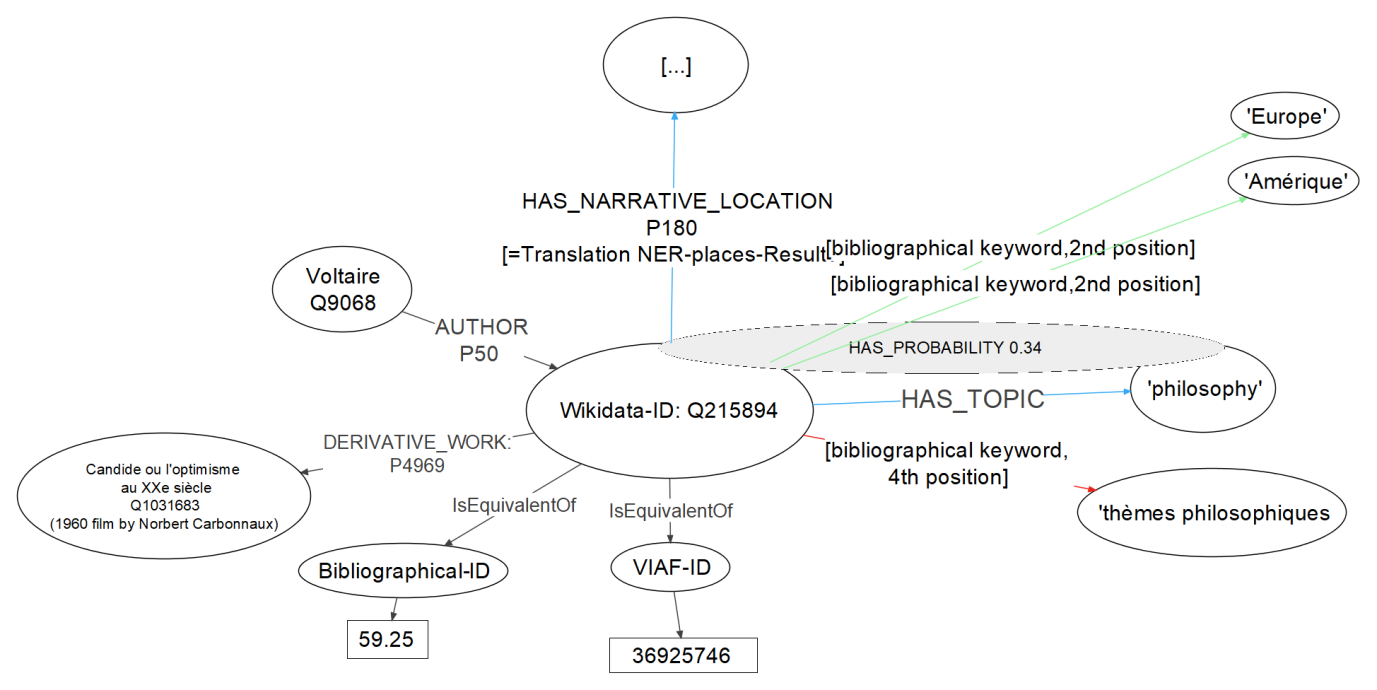
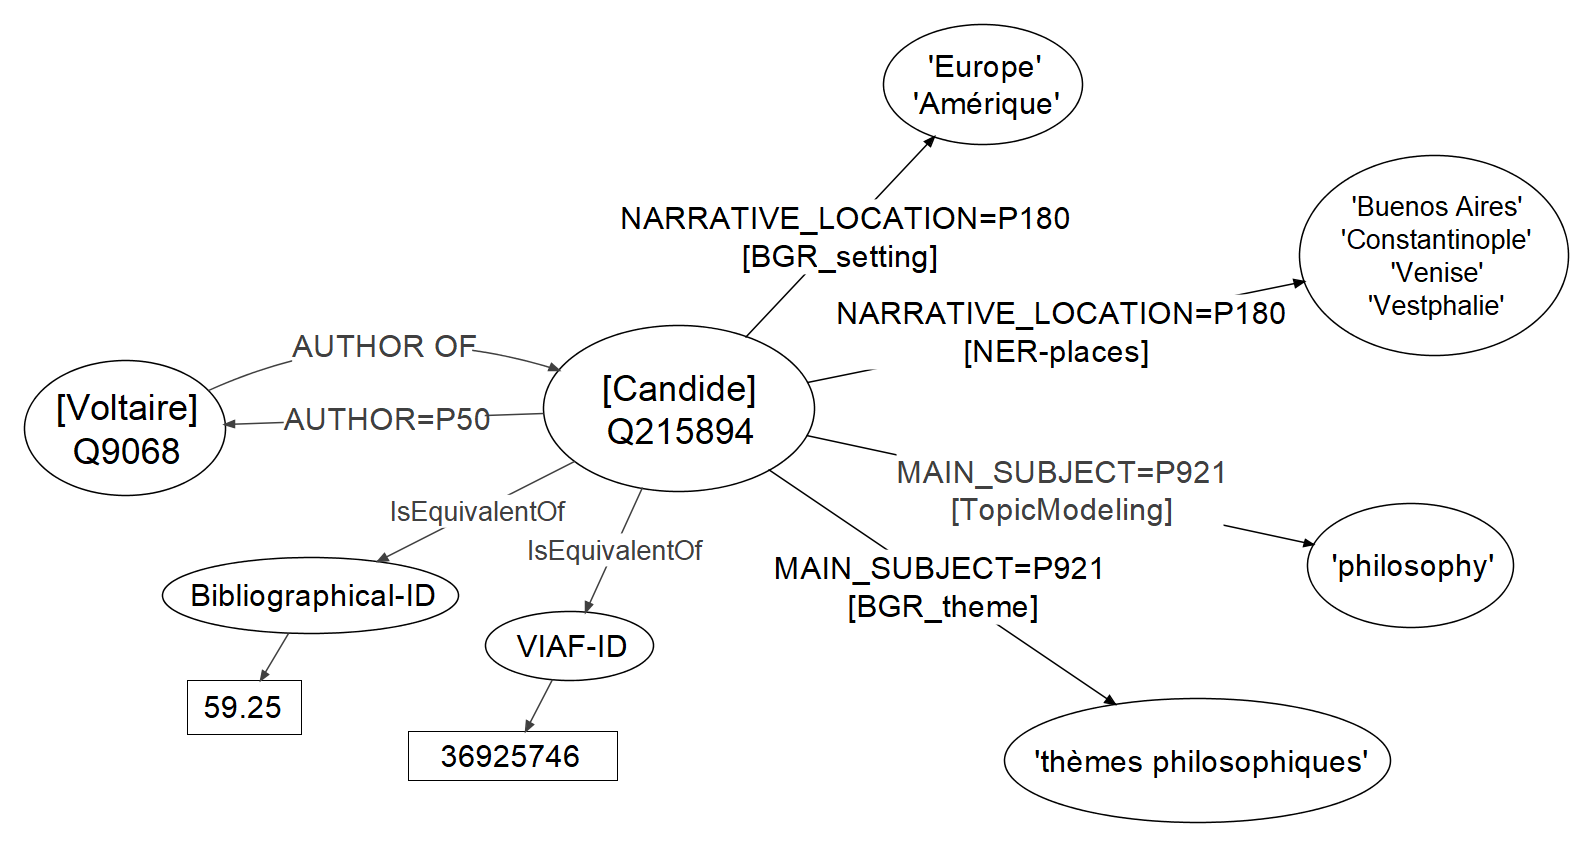
full draft

diff --git a/index.html b/index.html
@@ -29,23 +29,24 @@
 <textarea data-template>
 
 # Modeling Literary History / Historiography
-<img height="80" data-src="img/basics/mimotext-logo.png">
+<img height="60" data-src="img/basics/mimotext-logo.png">
 <br/>
 <hr/>
-<p>Christof Schöch & Maria Hinzmann,<br/>with contributions from Julia Röttgermann, Katharina Dietz and Anne Klee</p>
+<p>Christof Schöch & Maria Hinzmann, with contributions from Julia Röttgermann, Katharina Dietz and Anne Klee</p>
+<p><a href="https://mimotext.github.io/modeling/">https://mimotext.github.io/modeling/</a></p>
+<br/>
 <p><strong><emph>Computational Modeling</emph> | Trier University | June 24, 2020</strong></p>
 <hr/>
-<br/>
-<img height="55" data-src="img/basics/tcdh-slim.png">&nbsp;&nbsp;&nbsp;<img height="55" data-src="img/basics/uni-trier.png">
+<img height="50" data-src="img/basics/tcdh-slim.png">&nbsp;&nbsp;&nbsp;<img height="50" data-src="img/basics/uni-trier.png">
 
 
 --
 ## Overview
-1. Modeling in Digital Humanities
-2. Introduction to 'Mining and Modeling Text'
-3. Modeling Literary History
-4. Modeling Literary Historiography
-5. A network of information
+1. [Modeling in Digital Humanities](#/2)
+2. [Introduction to 'Mining and Modeling Text'](#/3)
+3. [Modeling Literary History](#/4)
+4. [Modeling Literary Historiography](#/5)
+5. [A network of information](#/6)
 
 --
 ## (1) Modeling in Digital Humanities
@@ -56,7 +57,7 @@
 
 >"The residue of uniqueness"
 
->modeling as an iterative, knowledge-producing process
+>(modeling as an iterative, knowledge-producing process)
 
 ---
 #### Jannidis & Flanders, *The Shape of Data in DH*, 2019
@@ -69,7 +70,7 @@
 #### Computational Modeling in DH
 * Data Modeling <!-- .element: class="fragment" data-fragment-index="1" -->
   * Conceptual Modeling: entities and relations<br/>(taxonomies, ontologies, vocabularies) <!-- .element: class="fragment" data-fragment-index="2" -->
-  * Logical Modeling: data structures<br/>(e.g. in XML-TEI, RDF) <!-- .element: class="fragment" data-fragment-index="3" -->
+  * Logical Modeling: schemas / data structures<br/>(e.g. in XML-TEI, RDF) <!-- .element: class="fragment" data-fragment-index="3" -->
 * Statistical Modeling <!-- .element: class="fragment" data-fragment-index="4" -->
   * Detecting trends and patterns (e.g. Topic Modeling, Linear Regression, Keyness etc.)  <!-- .element: class="fragment" data-fragment-index="4" -->
 * Language Models <!-- .element: class="fragment" data-fragment-index="5" -->
@@ -95,6 +96,16 @@
 #### MiMoText: overview
 <a href="img/mimotext-overview.png"><img height="500" data-src="img/mimotext-overview.png"></a>
 
+* <a href="https://mimotext.uni-trier.de">https://mimotext.uni-trier.de</a>
+
+---
+#### Bibliographie du Genre romanesque: Candide
+<a href="img/bgrf-Candide.png"><img height="500" src="img/bgrf-Candide.png"></img></a>
+
+---
+#### Bibliographie modeled as RDF
+<a href="img/bgrf-Diderot-RDF.png"><img height="500" src="img/bgrf-Diderot-RDF.png"></img></a>
+
 
 --
 ## (3) Modeling Literary History
@@ -104,7 +115,7 @@
 
 
 ---
-### (A) Topic Modeling Novels
+### Topic Modeling Novels
 * Corpus design and text encoding <!-- .element: class="fragment" data-fragment-index="1" -->
 * Topic Modeling <!-- .element: class="fragment" data-fragment-index="2" -->
 * Modeling results as Linked Open Data <!-- .element: class="fragment" data-fragment-index="3" -->
@@ -132,16 +143,13 @@
 
 
 ---
-#### Modeling als LOD 
-* HAS_TOPIC (with threshold for inclusion and probability)
-    * Candide HAS_TOPIC 'philosophy' <!-- .element: class="fragment" data-fragment-index="1" -->
-    * {Candide HAS_TOPIC 'philosophy'} HAS_PROBABILITY 0.34 <!-- .element: class="fragment" data-fragment-index="1" -->
-* Integration into the database of statements <!-- .element: class="fragment" data-fragment-index="2" -->
-
-
----
-### (B) Named Entity Recognition
-
+#### Modeling as Linked Open Data (LOD) 
+* predicate MAIN_SUBJECT  <!-- .element: class="fragment" data-fragment-index="1" -->
+  * = Wikidata: P921 (cf. Dublin Core "Subject") <!-- .element: class="fragment" data-fragment-index="2" -->
+  * with threshold for inclusion and probability (and/or rank) <!-- .element: class="fragment" data-fragment-index="3" -->
+  * Candide MAIN_SUBJECT 'philosophy' <!-- .element: class="fragment" data-fragment-index="4" -->
+  * {Candide MAIN_SUBJECT 'philosophy'} PROBABILITY 0.34 <!-- .element: class="fragment" data-fragment-index="5" -->
+* Integration into the database of statements <!-- .element: class="fragment" data-fragment-index="6" -->
 
 
 --
@@ -153,45 +161,97 @@
 
 ---
 ### (A) Extracting Statements
-* Define annotation layer with statement types
-* Manually annotate examples of statements
-* Learn to automatically identify instances
-
----
-#### INCEPTION
+* Create training data by manual annotation (in INCePTION)
+* Train and apply Machine Learning (in Python)
 
 
 ---
-### (B) Modeling Historiograohy 
+#### Annotate subject-object layer
+<a href="img/inception_Candide-disambiguation.png"><img height="350" src="img/inception_Candide-disambiguation.png"></img></a>
+
+* here: named entities: authors, works
+* disambiguation of entities via Wikidata IDs
+
+
+---
+#### Annotate relation layer
+<a href="img/inception_Candide-relation.png"><img height="300" src="img/inception_Candide-relation.png"></img></a>
+
+* here: "author_of" relation (Wikidata: inverse of P50)
+* Statements/ LOD triples: 'author AUTHOR_OF work'
+* Training data: sentences +  statements
+
+---
+#### Machine Learning
+* Material: sentences automatically annotated for named entities <!-- .element: class="fragment" data-fragment-index="1" -->
+* Provide manual annotations of sentences (training and evaluation) <!-- .element: class="fragment" data-fragment-index="2" -->
+* Learn patterns / probabilities for features indicative of a relation <!-- .element: class="fragment" data-fragment-index="3" -->
+* Generate relation annotations for all sentences <!-- .element: class="fragment" data-fragment-index="4" -->
+
+
+
+---
+### (B) Modeling Historiography 
 * Which types of statements are necessary?
-* What relations to these types have?
-* How do we create consensus?
+* How do we create scholarly consensus?
 * Meta-perspective on disciplinary discourse
 
 
+---
+#### Extract from literary history
+
+>Candide is Voltaire's most widely read work and was probably already during the author's lifetime. When it first appeared in print in Geneva in 1759, it was immediately banned, but only with the result that it was reprinted thirteen times in the same year. (Erich Köhler, Aufklärung II, 1984; translation: DeepL)
+
+
+---
+#### Statements (1)
+* Voltaire (viaf:36925746) AUTHOR_OF Candide (viaf:176620251) <!-- .element: class="fragment" data-fragment-index="1" -->
+* Candide (viaf:176620251) PUBLICATION_DATE 1759  <!-- .element: class="fragment" data-fragment-index="2" -->
+* Candide (viaf:176620251) PUBLICATION_LOCATION Geneva (tgn:7007279)  <!-- .element: class="fragment" data-fragment-index="3" -->
+* Candide (viaf:176620251) LEGAL_STATUS censored <!-- .element: class="fragment" data-fragment-index="4" -->
+
+---
+#### Statements (2)
+* Candide (viaf:176620251) RECEPTION_INTENSITY high <!-- .element: class="fragment" data-fragment-index="1" -->
+* Candide (viaf:176620251) RECEPTION_TIME immediate;long-term <!-- .element: class="fragment" data-fragment-index="2" -->
+* Candide (viaf:176620251) GENRE novel; satire; utopia <!-- .element: class="fragment" data-fragment-index="3" -->
+* Candide (viaf:176620251) NARRATIVE_LOCATION Lisbon; Eldorado; Constantinople <!-- .element: class="fragment" data-fragment-index="4" -->
+* Voltaire (viaf:176620251) INFLUENCED_BY Leibniz <!-- .element: class="fragment" data-fragment-index="5" -->
+
+---
+#### Special kinds of statements
+* Source:<br/>{Voltaire AUTHOR_OF Candide} SOURCE Köhler_1984<br/><br/>  <!-- .element: class="fragment" data-fragment-index="1" -->
+* Qualifier:<br/>{Candide LEGAL_STATUS censored} TEMPORAL_SCOPE 1759-1765<br/><br/>  <!-- .element: class="fragment" data-fragment-index="2" -->
+* Implicit:<br/>Köhler_1984 MAIN_SUBJECT Voltaire; Candide; Geneva<br/><br/>  <!-- .element: class="fragment" data-fragment-index="3" -->
 
 
 --
 ## (5) A network of information
-
----
-#### Example entry: Candide
-<a href="img/bgrf-Candide.png"><img height="500" src="img/bgrf-Candide.png"></img></a>
-
-
----
-### Bibliography and Novels
-
-* The 'Bibliographie du genre romanesque' contains information on setting and theme/tone <!-- .element: class="fragment" data-fragment-index="1" -->
-* The 'novel analysis' extracts place names and topics <!-- .element: class="fragment" data-fragment-index="2" -->
-* Relations <!-- .element: class="fragment" data-fragment-index="3" -->
-    * 
 
 
 ---
 #### Bringing it all together
 <a href="img/network-of-information.png"><img height="500" src="img/network-of-information.png"></img></a>
 
+---
+### Thank you!<br/><br/>Questions or comments?
+
+<br/><br/>
+<br/><br/>
+<br/><br/>
+<br/><br/>
+
+slides: https://mimotext.github.io/modeling/
+
+project: https://mimotext.uni-trier.de/
+
+
+--
+## Bonus slides
+
+---
+#### Wikidata query
+<a href="https://query.wikidata.org/#SELECT%20DISTINCT%20%3Fbook%20%3FbookLabel%0AWHERE%20%7B%0A%20%20%3Fbook%20wdt%3AP31%20wd%3AQ7725634%20%3B%20%20%23%20books%20that%20are%20literary%20works%0A%20%20%20%20%20%20%20%20wdt%3AP407%20wd%3AQ150%20%3B%20%20%20%20%20%20%23%20books%20written%20in%20French%0A%20%20%20%20%20%20%20%20wdt%3AP921%20wd%3AQ5891%3B%20%23main%20subject%3A%20philosophy%20%0A%20%20SERVICE%20wikibase%3Alabel%20%7B%0A%20%20%20%20bd%3AserviceParam%20wikibase%3Alanguage%20%22%5BAUTO_LANGUAGE%5D%2Cfr%22%20.%0A%20%20%7D%0A%7D%20%0A"><img height="500" src="img/wikidata-query.png"></img></a>
 
 
 

diff --git a/dist/theme/simple.css b/dist/theme/simple.css
@@ -84,6 +84,7 @@ section.has-dark-background, section.has-dark-background h1, section.has-dark-ba
 
 /* title */
 .reveal h1 {
+  color: #471da1;
   font-size: 1.60em; }
 
 /* horizontal section heading */
